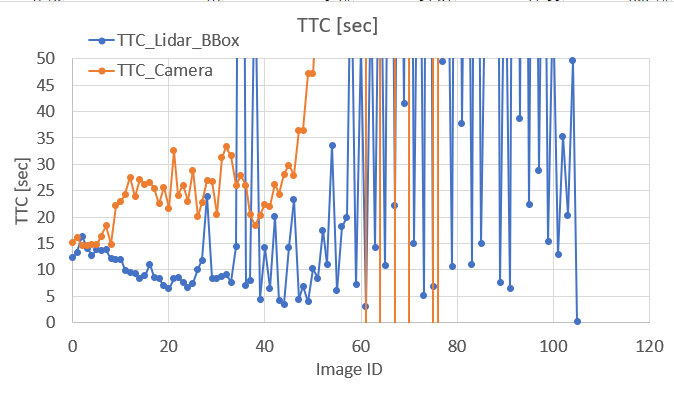
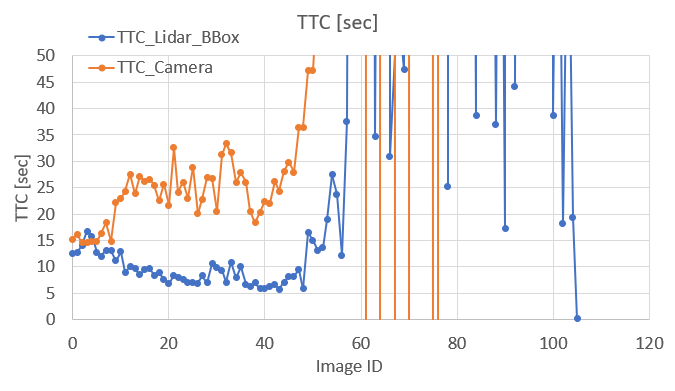
after submit 2

diff --git a/Project_3D_Object_Tracking/src/camFusion_Student.cpp b/Project_3D_Object_Tracking/src/camFusion_Student.cpp
@@ -401,27 +401,27 @@ void computeTTCLidar(std::vector<LidarPoint> &lidarPointsPrev,
     double averageXCurr = 0.0;
     int numXPrev = lidarPointsPrev.size();
     int numXCurr = lidarPointsCurr.size();
+    vector<double> PrevXs, CurrXs;
 
     for(auto itPrev = lidarPointsPrev.begin(); itPrev != lidarPointsPrev.end(); ++itPrev)
     {
-        averageXPrev += itPrev->x;
+        PrevXs.push_back(itPrev->x);
     }
     //
     for(auto itCurr = lidarPointsCurr.begin(); itCurr != lidarPointsCurr.end(); ++itCurr)
     {
-        averageXCurr += itCurr->x;
+        CurrXs.push_back(itCurr->x);
     }
-
-    averageXPrev /= (double)numXPrev;
-    averageXCurr /= (double)numXCurr;
+    double PrevXMedian = GetMedian(PrevXs);
+    double CurrXMedian = GetMedian(CurrXs);
 
     // Compute TTC from both measurements
-    double deltaX = abs(averageXPrev - averageXCurr);
+    double deltaX = abs(PrevXMedian - CurrXMedian);
     double deltaV = deltaX / deltaTime;
 
     if (deltaX > 0.001)
     {
-        TTC = averageXCurr / deltaV;
+        TTC = CurrXMedian / deltaV;
     }
     else
     {
@@ -438,9 +438,9 @@ void computeTTCLidar(std::vector<LidarPoint> &lidarPointsPrev,
     }
      */
 
-    xMinLidar   = averageXCurr;
+    xMinLidar   = CurrXMedian;
     deltaVLidar = deltaV;
-    cout << "AverageX = " << averageXCurr << " , deltaV = " << deltaV <<  endl;
+    cout << "AverageX = " << CurrXMedian << " , deltaV = " << deltaV <<  endl;
     cout << "  TTC of Lidar = " << TTC << endl;
     cout << "------------------- Task-2 <end> ----------------------------" << endl;
 }

diff --git a/Project_3D_Object_Tracking/src/FinalProject_Camera.cpp b/Project_3D_Object_Tracking/src/FinalProject_Camera.cpp
@@ -93,7 +93,7 @@ int parameter_study(string detectorType, string descriptorType, string folderPat
     int imgEndIndex   = 77;//18;   // last file index to load
 #endif
 #if SIMULATION_TYPE == 2
-    int imgEndIndex   = 33;//18;   // last file index to load
+    int imgEndIndex   = 48;//18;   // last file index to load
 #endif
     int imgStepWidth  = 1;
     int imgFillWidth  = 4; // no. of digits which make up the file index (e.g. img-0001.png)

diff --git a/Project_3D_Object_Tracking/src/MyUtility.h b/Project_3D_Object_Tracking/src/MyUtility.h
@@ -6,9 +6,9 @@
 
 #define DEBUG_MODE 0
 #define VIEW_IMAGE_MODE 0
-#define FIG_SAVE_MODE 1
+#define FIG_SAVE_MODE 0
 #define TTC_OUTLIER 10000
-#define SIMULATION_TYPE 1 // 1=FP.5 , 2=FP.6
+#define SIMULATION_TYPE 2 // 1=FP.5 , 2=FP.6
 
 #include <vector>
 #include <stdio.h>

diff --git a/Project_3D_Object_Tracking/README.md b/Project_3D_Object_Tracking/README.md
@@ -44,7 +44,32 @@ In this final project, you will implement the missing parts in the schematic. To
 3. Compile: `cmake .. && make`
 4. Run it: `./3D_object_tracking`.
 
-# FP1. to FP.4 (my solutions)
+# FP.0 (my solutions)
+### TASK FP.1 : match list of 3D objects (vector<BoundingBox>) between current and previous frame
+* Using "matches (vector<cv::DMatch>)", I create a map.
+* First I create a 2D Table like a below left figure. The table value is matched key-points number.
+* Second I select max number matching and create a map "bbMatches".
+<img src="results/Fig_0_Report/FP_1_1.PNG">
+
+### TASK FP.2 -> compute time-to-collision based on Lidar data
+* Using all key-points of current and previous frame, calculate median of X.
+* I calculate TTC using equation below.
+  * Relative_Distance = abs(Median_X_Prev - Median_X_Current);
+  * Relative_Velocity = Relative_Distance / Delta_Time
+  * TTC = Relative_Distance / Relative_Velocity
+
+### TASK FP.3 -> assign enclosed keypoint matches to bounding box
+* Step-1. calculate distance between previous and current key-points for all matches.
+* Step-2. calculate average and distance of all distance.
+* Step-3. if abs(each_distance - average) is smaller than variance, I save that key-point in "bBoxCurr". 
+
+### TASK FP.4 -> compute time-to-collision based on camera
+* From an image, we can not calculate distance directly. So, I calculate distance ratio "h1/h0" in the figure below.
+  <img src="results/Fig_0_Report/FP_4_1.PNG">
+* Using the equation (4), I calculate "h1/h0" and TTC.
+  <img src="results/Fig_0_Report/FP_4_2.PNG">
+
+# FP.1 to FP.4 (my solutions)
 * I show the results of Object Tracking.
   <img src="results/Fig_1_Object_Classification/result.gif">
   <img src="results/Fig_2_Object_3D/result.gif">
@@ -71,14 +96,12 @@ In this final project, you will implement the missing parts in the schematic. To
   * TTC = Relative_Distance / Relative_Velocity
     * Relative_Distance = Calculated_by_Lidar_Points 
     * Relative_Velocity = Relative_Distance_Change / Delta_Time
-* For Image_ID 28, Relative_Distance_Change of TopView is not continuous. <BR> TTC will not be continuous.
 * After Image_ID 48, Relative_Distance_Change is too small. This will lead to unstable TTC calculation.
 
 
 * I show the TTC which are calculated by Lidar Bounding Boxes Info.
-  * For Image_ID 28, TTC changed suddenly.
-  * After Image_ID 48, TTC become unstable.(from Image_ID 33 to 47, Relative_Distance_Change is gradually getting smaller)
-  * In oder to compare results properly for FP.6, I use only Image_ID from 0 to 33.
+  * After Image_ID 48, TTC become unstable.
+  * In oder to compare results properly for FP.6, I use only Image_ID from 0 to 48.
   <img src="results/Fig_0_Report/Final_Project_2.PNG">
 
 # FP.6 Performance Evaluation 2(my solution)
